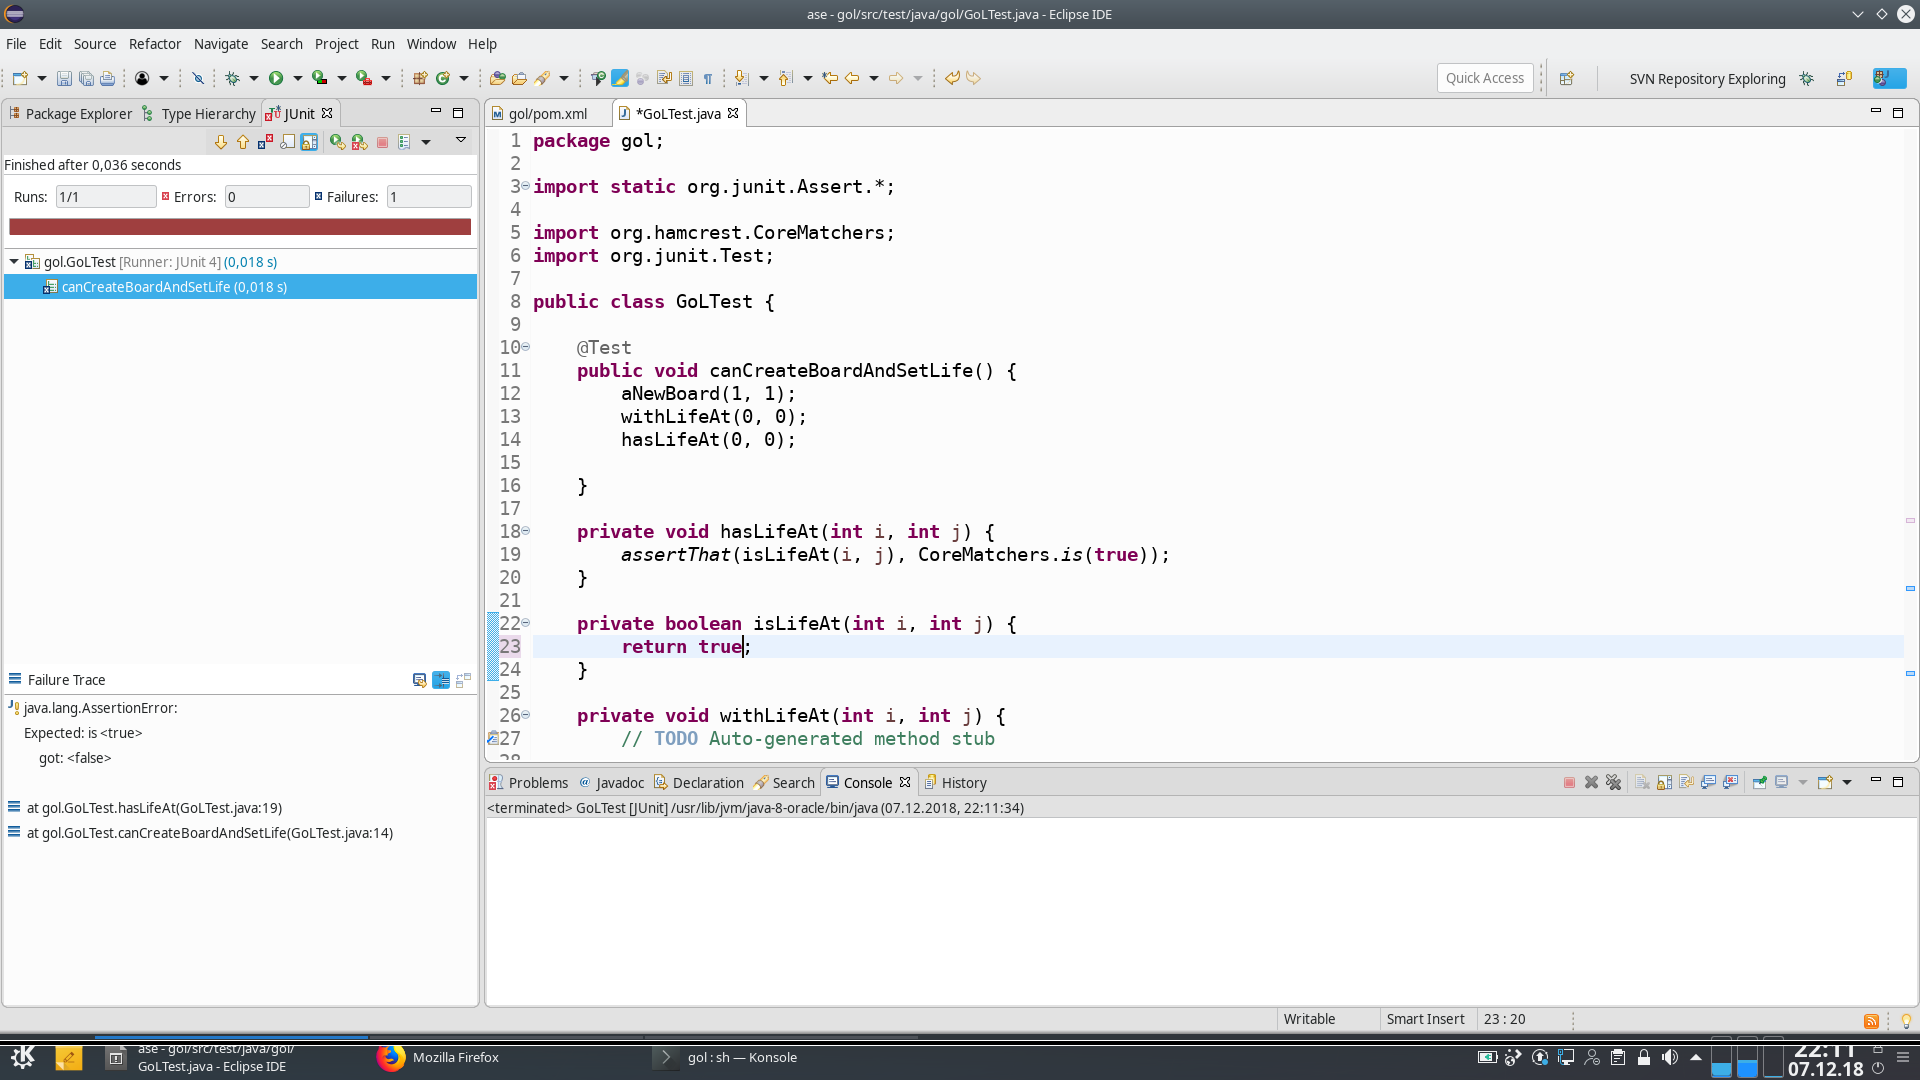
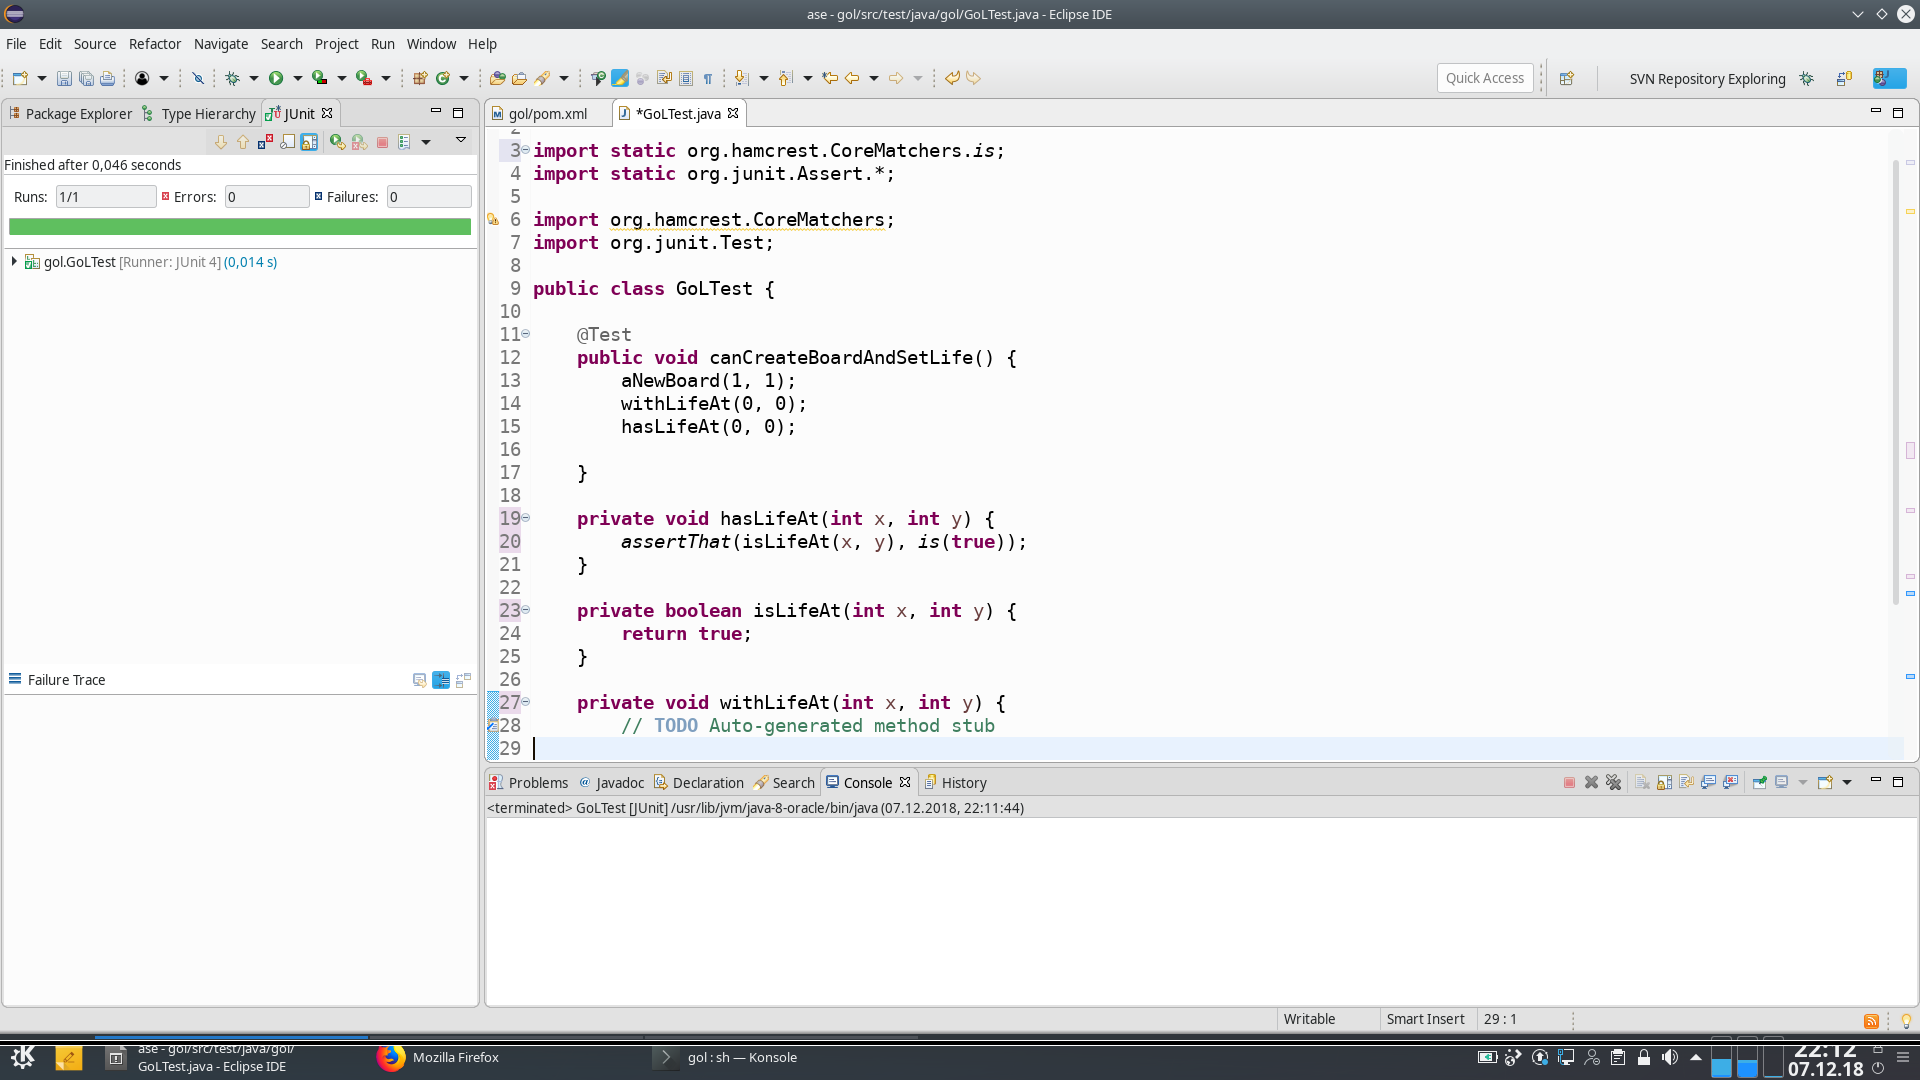
autocommit on change

diff --git a/src/test/java/gol/GoLTest.java b/src/test/java/gol/GoLTest.java
@@ -1,5 +1,6 @@
 package gol;
 
+import static org.hamcrest.CoreMatchers.is;
 import static org.junit.Assert.*;
 
 import org.hamcrest.CoreMatchers;
@@ -15,15 +16,15 @@ public class GoLTest {
 
 	}
 
-	private void hasLifeAt(int i, int j) {
-		assertThat(isLifeAt(i, j), CoreMatchers.is(true));
+	private void hasLifeAt(int x, int y) {
+		assertThat(isLifeAt(x, y), is(true));
 	}
 
-	private boolean isLifeAt(int i, int j) {
+	private boolean isLifeAt(int x, int y) {
 		return true;
 	}
 
-	private void withLifeAt(int i, int j) {
+	private void withLifeAt(int x, int y) {
 		// TODO Auto-generated method stub
 
 	}
